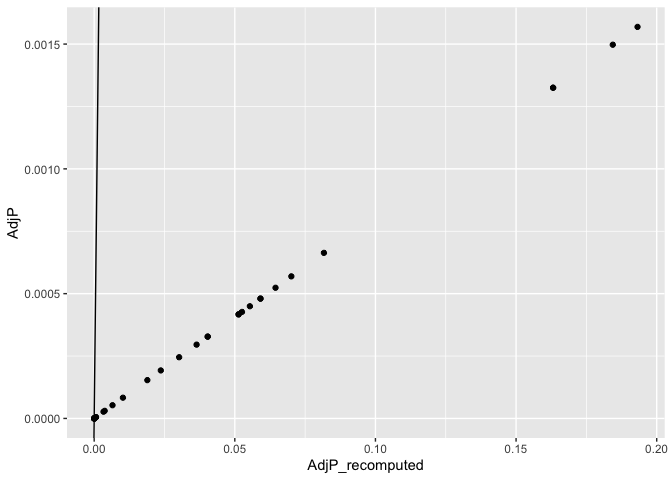
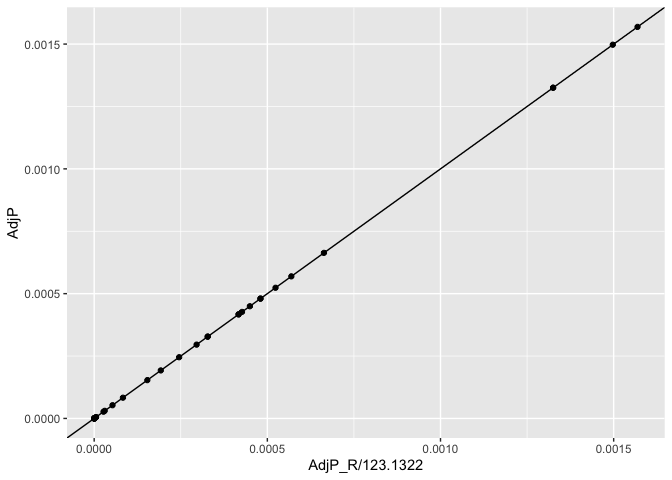
update

diff --git a/p38a/knit_notebooks/1.inspect-p38a-screen.md b/p38a/knit_notebooks/1.inspect-p38a-screen.md
@@ -11,7 +11,7 @@ screen_data <- read_csv("input/p38_data.csv")
 ```
 
     ## 
-    ## ── Column specification ──────────────────────────────────────────────────────────────────────────────────────────────────────────────────────────────────────────────
+    ## ── Column specification ──────────────────────────────────────────────────────────────────────────────────────
     ## cols(
     ##   Cmpd = col_character(),
     ##   Broad = col_double(),
@@ -26,30 +26,43 @@ Recompute adjusted P-value from `KSP5`
 ``` r
 screen_data <-
   screen_data %>%
-  mutate(AdjP_recomputed = p.adjust(KSP5, method = "BH"))
+  mutate(AdjP_R = p.adjust(KSP5, method = "BH"))
 ```
 
 There’s a linear relationship with `AdjP` but the slope is off.
 
 ``` r
 screen_data %>%
-  ggplot(aes(AdjP_recomputed, AdjP)) + geom_point() + geom_abline(slope = 1)
+  ggplot(aes(AdjP_R / 1.231322e+02, AdjP)) + geom_point() + geom_abline(slope = 1)
 ```
 
 ![](1.inspect-p38a-screen_files/figure-gfm/unnamed-chunk-4-1.png)<!-- -->
 
-`AdjP` is a factor of `8.121353e-03` lower for some reason
+`AdjP` is a factor of `1.231322e+02` lower for some reason
 
 ``` r
-lm(AdjP ~ AdjP_recomputed, screen_data) %>%
+lm(AdjP_R ~ AdjP, screen_data) %>%
   broom::tidy()
 ```
 
 <div class="kable-table">
 
-| term             |  estimate | std.error |     statistic |   p.value |
-|:-----------------|----------:|----------:|--------------:|----------:|
-| (Intercept)      | 0.0000000 |         0 | -1.906872e+00 | 0.0655493 |
-| AdjP\_recomputed | 0.0081214 |         0 |  1.431444e+09 | 0.0000000 |
+| term        | estimate | std.error |    statistic |   p.value |
+|:------------|---------:|----------:|-------------:|----------:|
+| (Intercept) |   0.0000 |     0e+00 | 1.906872e+00 | 0.0655493 |
+| AdjP        | 123.1322 |     1e-07 | 1.431443e+09 | 0.0000000 |
 
 </div>
+
+``` r
+screen_data %>% 
+  select(Broad:AdjP_R) %>%
+  pairs()
+```
+
+![](1.inspect-p38a-screen_files/figure-gfm/unnamed-chunk-6-1.png)<!-- -->
+
+-   `is_rndm` indicates if the compounds is a Cell Painting negative
+    control (based on correlation to the ORF)
+-   `medTLR5` is the ratio of the mean of the p38 imaging readout wrt
+    DMSO for that compound (mean across the n=4 replicates)
